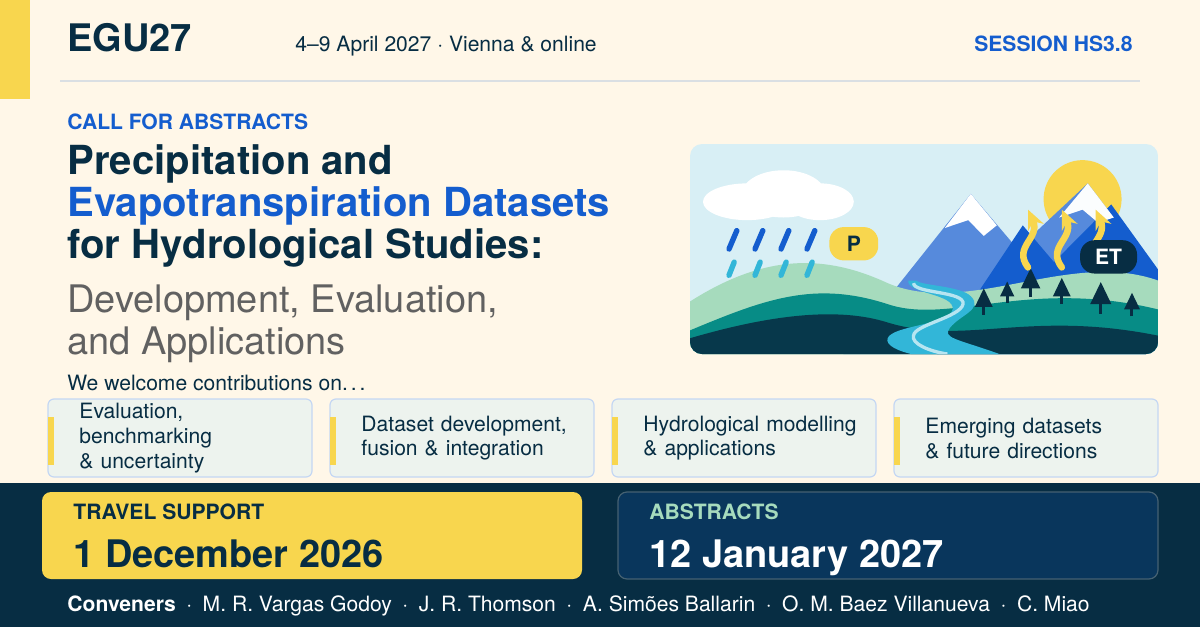
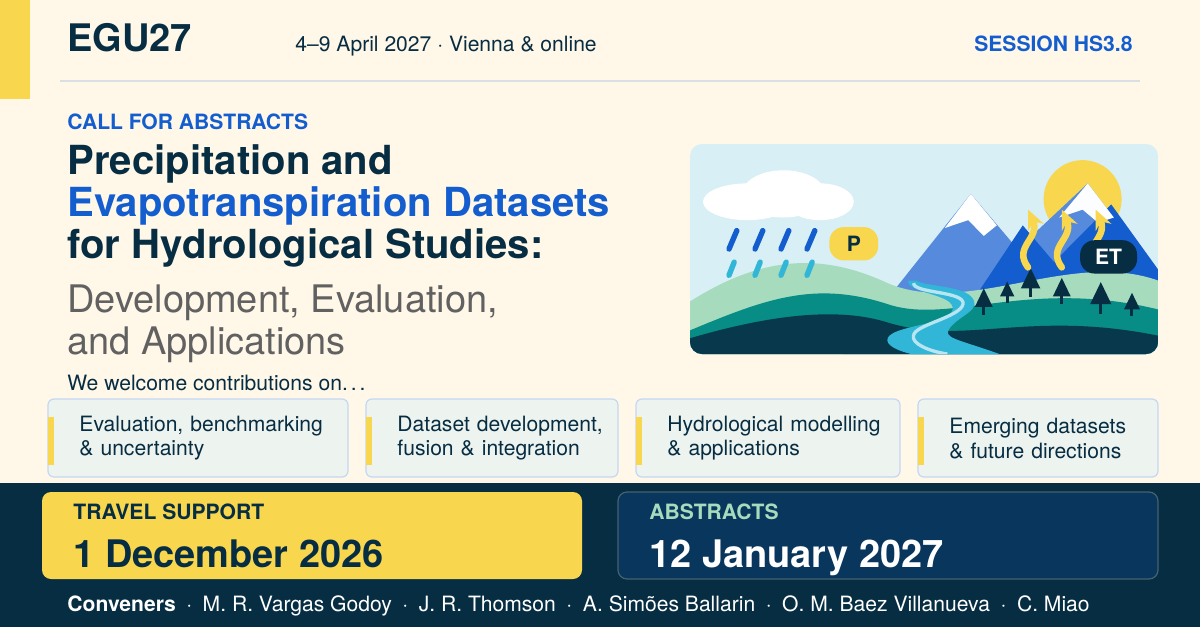
Widen first LinkedIn topic box for two-line text
Redistribute topic-box widths while retaining equal gaps and the overall strip width. All four topics now occupy two lines without hyphenation. Inspected the final render and passed packaging validation.

AI assistance: GPT-6 (Codex).

Changed region(s): [[0.0617, 0.6364, 0.9558, 0.7879]]

diff --git a/site/index.html b/site/index.html
@@ -135,7 +135,7 @@
               <div class="download-card-bottom"><div><h3>Instagram</h3><p>Portrait · 1080 × 1350</p></div><div class="download-links"><a href="downloads/egu27-hs38-instagram.png" download>PNG <span aria-hidden="true">↓</span></a><a href="downloads/egu27-hs38-instagram.pdf" download>PDF <span aria-hidden="true">↓</span></a></div></div>
             </article>
             <article class="download-card">
-              <a class="asset-preview landscape-preview" href="downloads/egu27-hs38-linkedin.png" aria-label="View the LinkedIn graphic"><img src="downloads/egu27-hs38-linkedin.png?v=c122cf8ebd4c" width="1200" height="627" loading="lazy" alt="Landscape social graphic for EGU27 session HS3.8 on precipitation and evapotranspiration datasets for hydrological studies. Submit abstracts by 12 January 2027, 13:00 CET."></a>
+              <a class="asset-preview landscape-preview" href="downloads/egu27-hs38-linkedin.png" aria-label="View the LinkedIn graphic"><img src="downloads/egu27-hs38-linkedin.png?v=b44fdea4444a" width="1200" height="627" loading="lazy" alt="Landscape social graphic for EGU27 session HS3.8 on precipitation and evapotranspiration datasets for hydrological studies. Submit abstracts by 12 January 2027, 13:00 CET."></a>
               <div class="download-card-bottom"><div><h3>LinkedIn</h3><p>Landscape · 1200 × 627</p></div><div class="download-links"><a href="downloads/egu27-hs38-linkedin.png" download>PNG <span aria-hidden="true">↓</span></a><a href="downloads/egu27-hs38-linkedin.pdf" download>PDF <span aria-hidden="true">↓</span></a></div></div>
             </article>
           </div>

diff --git a/docs/history.md b/docs/history.md
@@ -60,3 +60,5 @@
 - Balanced LinkedIn’s title and illustration as aligned columns: kept the complete title on the left, split its gray continuation across two lines, and inset the rounded illustration to align with the title block and topic-strip right edge. Preserved the four topic boxes.
 
 - Removed LinkedIn deadline times, moved conference dates/location into the header and placed an initialled, ORCID-linked convener line beneath two balanced deadline panels.
+
+- Widened the first LinkedIn topic box from 44 to 50 mm so evaluation/benchmarking fits on two lines. Redistributed the remaining three boxes to preserve the strip width and equal gaps.

diff --git a/source/latex/README.md b/source/latex/README.md
@@ -19,8 +19,8 @@ layout uses exactly three size tokens: **22 / 16 / 14 TeX pt** for Instagram and
 helpers in `campaign.sty` control every text element, including the P and ET labels.
 Change the `\UseCampaignSizes` arguments to adjust these levels; do not add separate
 caption sizes. Contribution macros use deliberate line breaks to avoid hyphenated
-words in the small boxes. `\ContributionOneCompact` holds the narrower LinkedIn
-version of the same evaluation topic.
+words in the small boxes. LinkedIn uses a wider first box so all four topics fit
+on two lines; `\ContributionOneCompact` is retained for narrower layout variants.
 
 ## Build
 
